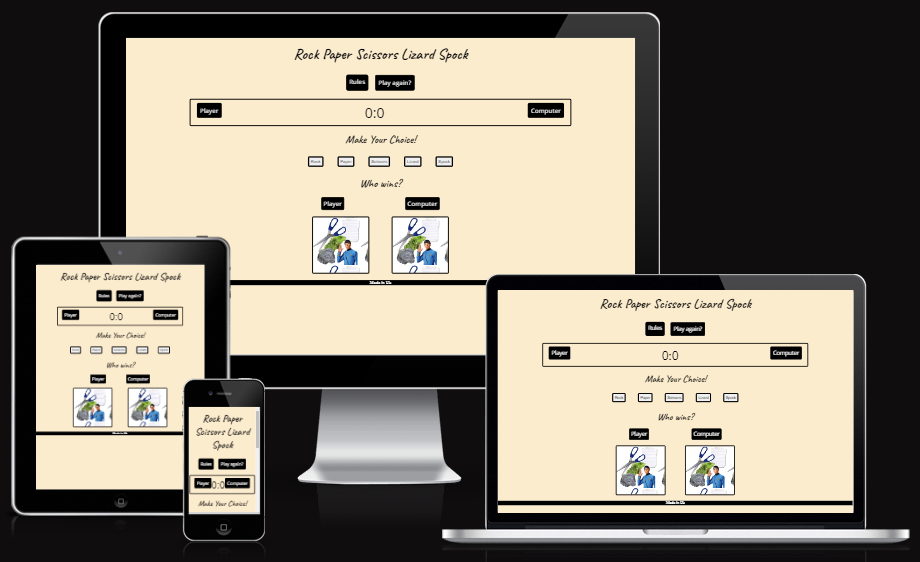
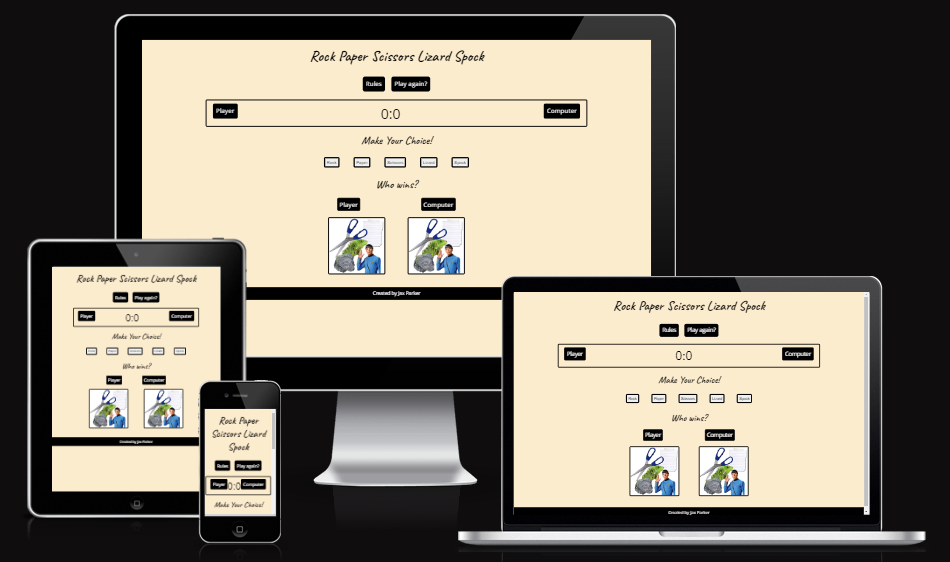
retest game and update testing.md

Changed region(s): [[0.0, 0.0, 1.0, 0.968]]

diff --git a/index.html b/index.html
@@ -18,13 +18,14 @@
 </head>
 
 <body>
-    <header>
-        <h1>Rock Paper Scissors Lizard Spock</h1>
-    </header>
     <section>
+        <header>
+            <h1>Rock Paper Scissors Lizard Spock</h1>
+        </header>
+        <!--Rules, Play Again and Scoreboard Section-->
         <div id="rules-btn">
             <a href="rules.html" class="btn" aria-label="Rules">Rules</a>
-            <span id="replay-btn" class="btn" aria-label="play again?">Play again?</span>
+            <span id="replay-btn" class="btn">Play again?</span>
         </div>
         <div id='score-board'>
             <div id="player-label" class='label'>Player</div>
@@ -32,9 +33,10 @@
             <span id="player-score">0</span>:<span id="computer-score">0</span>
         </div>
     </section>
+    <!--Game Section-->
     <section>
         <div class="choices">
-            <p>Make Your Choice!</p>
+            <h2>Make Your Choice!</h2>
             <div class="choice">
                 <button class="img-choice" id="rock" data-type="Rock" aria-label="rock icon">Rock</button>
                 <button class="img-choice" id="paper" data-type="Paper" aria-label="paper icon">Paper</button>
@@ -46,7 +48,7 @@
         </div>
 
         <div id="result">
-            <p id="result-message">Who wins?</p>
+            <h2 id="result-message">Who wins?</h2>
 
         </div>
         <div class="container">

diff --git a/assets/js/script.js b/assets/js/script.js
@@ -127,5 +127,5 @@ function replayGame() {
         playerImage.innerHTML = "";
         compImage.innerHTML = "";
         result.innerHTML= "Who wins?";
-    })
+    });
 }

diff --git a/assets/css/styles.css b/assets/css/styles.css
@@ -76,7 +76,7 @@ header {
     padding: 10px;
 }
 
-p {
+h2 {
     font-family: Caveat, cursive;
     font-size: 35px;
     text-align: center;

diff --git a/README.md b/README.md
@@ -46,7 +46,7 @@
 #### Visitor Goals
 
     * As a visiting user, I want to be able to understand how to play the game after reading the rules.
-    * As a visiting user, I want to be able visually see which choice I made.
+    * As a visiting user, I want to be able visually see which choice I made & which choice the computer made.
     * As a visiting user, I want to be able to see who won the point and see the scores.
     * As a visiting user, I want to be able to see who won the game.
     * As a visiting user, I want to be able to be able to replay after the game has finished.
@@ -56,10 +56,10 @@
 The colours chosen were contrasting to assist accesibility and picked from:.<br>
 ![Hex Colors](assets/readme-images/hex-colours.png)
 #### Typography
-The title and message font used are **Caveat** which is cursive to give a fun, informal look. All other text used is **Open Sans** with letter spacing to ensure it is easy to read for children. Both fonts were imported from Google Fonts.<br>
+The title and message font used are **Caveat** which is cursive to give a fun, informal look. All other text used is **Open Sans** with letter spacing to ensure it is easy to read. Both fonts were imported from Google Fonts.<br>
 ![Fonts Used](assets/readme-images/fonts.png)
 #### Imagery
-The favicon used was a simple rock, paper, scissors icon. The starting image was made up from the other free images from HiClipart and can be found [here](https://www.hiclipart.com/free-transparent-background-png-clipart-havpw).
+The favicon used was a simple rock, paper, scissors icon. The starting image was created using the other free images from HiClipart and can be found [here](https://www.hiclipart.com/free-transparent-background-png-clipart-havpw).
 
 #### Wireframes
 Created using Balsamiq.<br>
@@ -86,8 +86,6 @@ After comparing the original wireframe designs to the finished website;
   * Is used to style the site, giving it colour and design.
 * JavaScript
   * Is used for the functionality of the site allowing the player to enter their name, click through the questions, see their score and play again or return to the start.
-* MS Publisher
-  * Used to create the wireframes as the free Balsamic license had expired.
 * [Google Fonts](https://fonts.google.com/)
 	* Google fonts are used throughout the project to import the *Caveat* and *Open Sans* fonts.
 * [GitHub](https://github.com/)
@@ -108,10 +106,6 @@ After comparing the original wireframe designs to the finished website;
 ## Summary
 The live project can be found [Here](https://jax-parker.github.io/rock-paper-scissors-lizard-spock/)<br>
 This project is front end only with no back-end functionality, the testing performed will be on the visual effects, layout and the correct operation of the game. Testing to be done on at least three browsers and all screen sizes.
-
-No elements should overlap another container div.
-
-All buttons should work with the appropriate function.
 
 ## Accessibility Testing
 
@@ -155,6 +149,28 @@ I wanted a space to try out code without interferring with the code I'd already 
 6. To merge your new code into your project type git merge nameofbranch.
 7. You can choose to delete your branch git branch -d nameofbranch without loosing any history or keep it.
 
+### How to Fork it
+1. On GitHub go to [jax-parker/rock-paper-scissors-lizard-spock](https://github.com/jax-parker/rock-paper-scissors-lizard-spock)
+w. In the top right, click 'Fork'.
+
+### How to Clone it
+1. Go to the main page of the repository.
+3. Above the file list, click "Code".
+4. Select HTTPS, SSH, or GitHub CLI and then click copy to clone it.
+5. Open Git Bash.
+6. Change the location of your cloned repository.
+7. Type `git clone` and then paste the URL you copied.
+8. Press “Enter” to create your clone.
+
+### Making a Local Clone
+1. Locate the [Repository](https://github.com/jax-parker/rock-paper-scissors-lizard-spock).
+2. Click "Code".
+3. Click Clone or Download.
+4. Copy the Git URL from the dialogue box.
+5. Open a terminal window in your choosen directory using your preferred development editor.
+6. Change the location to where you want the cloned directory to be.
+7. Type `git clone`, and then paste the URL you copied.
+8. Press Enter, and your local clone will be created.
 ***
 ## Credits
 ### Code

diff --git a/testing.md b/testing.md
@@ -7,26 +7,30 @@
 Feature Tested | Expected Result | Actual Result | Pass/Fail
 ---------------|-----------------|--------------|--------------
 Diplay game all elements present | Show game elements on page| As expected | Pass
+Page responsivness | Use Google Toggle to test respoinsiveness | As expected | Pass
 Hover colour change on buttons | Player hovers mouse over each button, pointer changes to hand and colour changes| As expected | Pass
-Rules button | On click opens rules page | As expected | Pass
+Rules button | On click opens rules page all elements present | As expected | Pass
 Play Game button | On rules page, takes you back to game page | As expected | Pass
 Choice buttons | Button choice corresponds to image and text | As expected | Pass
+Computer Choice | Random image appears once player has made their choice| As expected | Pass
 Message div | Shows correct message corresponding to images | As expected | Pass
 Scoreboard | Score increments by one depending on player or computer win | As expected | Pass 
-Play again? button | Game resets and scores return to zero | As expected | Pass
-End Game | Player cannot use buttons after score of ten is reached | As expected | Pass
+Scoreboard Tie | Score does not increment by one | As expected | Pass
+Play again? button | Game resets and scores return to zero at any time when clicked | As expected | Pass
+End Of Game | When computer or player score reaches 10, winner message appears | As expected | Pass
+End Of Game | When computer or player score reaches 10 game resets images & score | As expected | Pass
+404.html | Page created and tested on github & live versions of the site | Does not work on live verson | Pass/Fail
 
 ## Bugs
 
 Bug | Status | Fix  
 ----|--------|-----
-Game allowed user to keep incrementing scores after 10| Resolved | ?????
-Game showed comp image and alt image on play again button| Resolved | ????
-
+Game allowed user to keep incrementing scores after 10| Resolved | Student Support explained that my play again button was included in my button loop so wasn't working - I changed it to a span and the 'button' then worked.
+Game showed comp image and alt image on play again button| Resolved | Again with Studen Support help, the issue above resolved this issue too.
 
 ## Remaining Bugs
 
-  * No bugs remaining.
+  * 404 page does not work on live site yet.
 
 ## Validator Testing
 
@@ -44,8 +48,8 @@ Game showed comp image and alt image on play again button| Resolved | ????
    
    ![Game Page](testingmd-images/game-page.png)
 
-* As a visiting user, I want to be able visually see which choice I made.
-    * The user can clearly see which button they are targeting as it changes colour and the pointer turns into a hand.<br>
+* As a visiting user, I want to be able visually see which choice I made & which choice the computer made.
+    * The user can clearly see which button they are targeting as, on hover, it changes colour and the pointer turns into a hand.<br>
     * The user can see the image of the choice they made and the random choice of the computer.<br>
 
    ![Button Hover](testingmd-images/button-hover.png)
@@ -57,6 +61,6 @@ Game showed comp image and alt image on play again button| Resolved | ????
     ![Score Increment & Message](testingmd-images/Score-graphic.png)
 
 * As a visiting user, I want to be able to be able to replay after the game has finished.
-    * When the score of either player reaches 10, a message to the player to say who one is shown.<br> 
+    * When the score of either player reaches 10, a message to the player to say who one is shown and the screen reset.<br> 
     
     ![Winner Message](testingmd-images/end-message.png)
